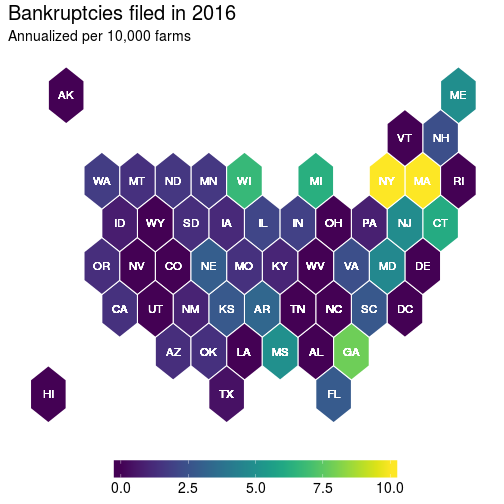
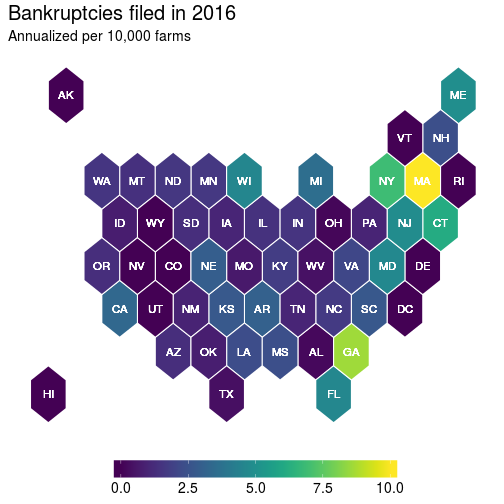
correct for mistake in calculating state level plot for entire time period

diff --git a/_posts/2016-12-22-hexbin-animation.md b/_posts/2016-12-22-hexbin-animation.md
@@ -76,7 +76,7 @@ anim <- ggplot(gg_anime, aes(long, lat, group = group)) +
 gg_animate(anim)
 ```
 
-![](../img/hexbin-animation-animate-albers.gif)
+![](../img/hexbin-animation-animate_albers.gif)
 
 At first glance, I think this turns out to be a pretty good visualization for bankruptcies over time. We've got spatial and temporal variation and it's displayed in a manner that can convey them. But, does it really? The more I dug into the data the more I found this graphic to be misleading.
 
@@ -101,7 +101,7 @@ us_map$ST_ABRV <- us_map$id
 
 banks_state <- j5 %>% 
   select(STATE, FISCAL_YEAR, TOTAL_FILINGS:NB_CHAP13, farms) %>% 
-  group_by(FISCAL_YEAR, STATE, farms) %>% 
+  group_by(FISCAL_YEAR, STATE) %>% 
   summarise_all(funs(sum(., na.rm = T))) %>% 
   mutate(ST_ABRV = state.abb[match(STATE, toupper(state.name))],
          ST_ABRV = ifelse(STATE == "DISTRICT OF COLUMBIA", "DC", ST_ABRV))
@@ -111,28 +111,32 @@ hex_map_data <- as.tbl(us_map) %>%
   left_join(centers) %>%
   filter(!is.na(long))
 
-ggplot(hex_map_data, aes(long, lat)) +
+hex_map_data %>% 
+  group_by(long, lat, order, hole, piece, id, group, ST_ABRV, STATE, x, y) %>% 
+  summarise_all(funs(sum(., na.rm = T))) %>% 
+  arrange(order) %>% 
+  ggplot(aes(long, lat)) +
   geom_polygon(aes(group = group, fill = 10000*CHAP_12 / farms),
                colour = "white") +
   geom_text(aes(label = id, x = x, y = y), color = "white", size = 4) +
   labs(title = "Bankruptcies filed across 1997 to 2016", 
        subtitle = "Annualized per 10,000 farms") +
   scale_fill_viridis(limits = c(0,10), oob = squish) +
-  theme(panel.background = element_blank(), # remove various background facets
+  theme(panel.background = element_blank(),
         panel.grid = element_blank(),
         axis.line = element_blank(),
         axis.title = element_blank(),
         axis.ticks = element_blank(),
         axis.text = element_blank(),
-        legend.position = "bottom", # move the legend
-        legend.title = element_blank(), #remove the legend's title
+        legend.position = "bottom",
+        legend.title = element_blank(),
         legend.key.width = unit(2, "cm"),
         legend.text = element_text(size = 12))
 ```
 
 ![plot of chunk Maps](../img/hexbin-animation-Maps-1.png)
 
-Now each state is equally represented. But it is not clear here that Massachusetts is an outlier. It actually looks as if Massachusetts has a low rate of farmer bankruptcies compared to the rest of the US across 1997 and 2016. So if we want to illustrate that Massachusetts is an outlier, which it is in later years, then we need to animate this hexbin map. So let's do that:
+Now each state is equally represented and now it is clear that Massachusetts is an outlier. But has this always been the case? Well not necessarily. So let's apply the animation methods with this hexbin map to get a clearer picture:
 
 
 ```r
@@ -158,7 +162,7 @@ p <- ggplot(hex_map_data, aes(long, lat, frame = FISCAL_YEAR)) +
 gg_animate(p)
 ```
 
-![](../img/hexbin-animation-hex-map-b-rates.gif)
+![](../img/hexbin-animation-hex-map-b_rates.gif)
 
 And here, we get a nice picture of state level variation in farmer bankruptcy rates. Which was a lesson to me in recognizing that there's many ways to visualize your data. And this has had further implications for how I have decided to model farmer bankruptcy rates that I might not have considered before I fully delved into the data.
 
